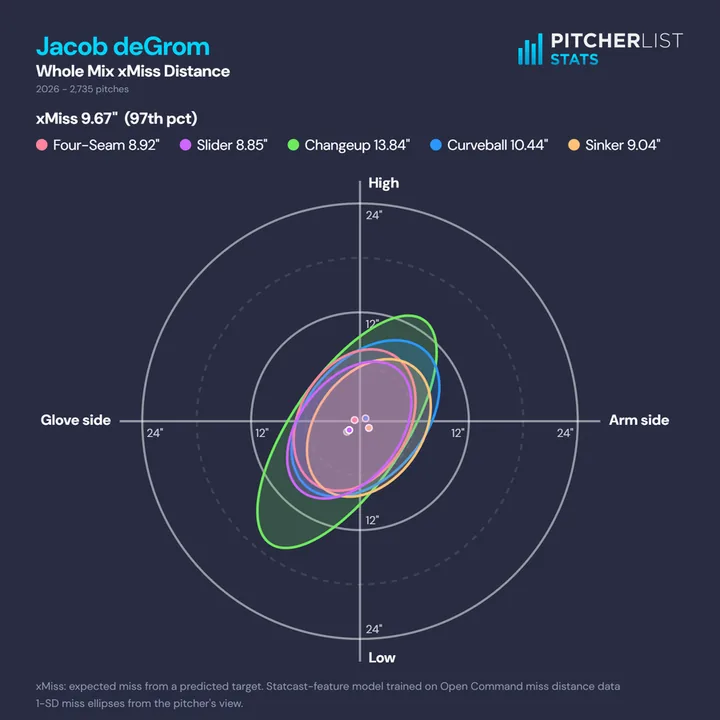
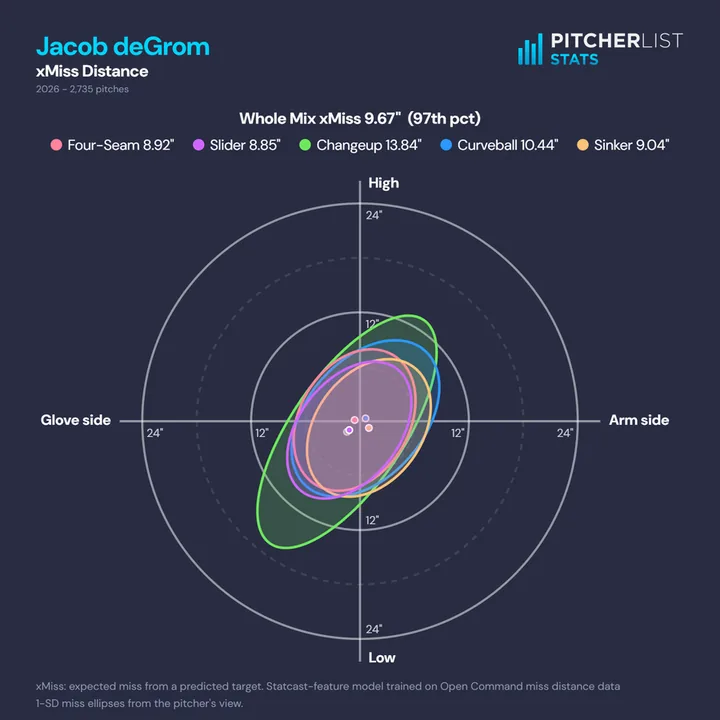
Homepage: regrab the xMiss tile (whole-mix key now says Whole Mix, centred; #368)

Changed region(s): [[0.0306, 0.1528, 0.9472, 0.2139], [0.0306, 0.0917, 0.3361, 0.1222]]

diff --git a/index.html b/index.html
@@ -268,7 +268,7 @@
 								</article>
 									<article class="style4">
 									<span class="image">
-										<img src="images/tile-xmiss.webp?v=1" srcset="images/tile-xmiss-720.webp?v=1 720w, images/tile-xmiss.webp?v=1 900w" sizes="(max-width: 480px) 100vw, (max-width: 980px) 50vw, 380px" width="900" height="900" alt="Jacob deGrom's 2026 miss ellipses for each pitch type, from the pitcher's view" />
+										<img src="images/tile-xmiss.webp?v=2" srcset="images/tile-xmiss-720.webp?v=2 720w, images/tile-xmiss.webp?v=2 900w" sizes="(max-width: 480px) 100vw, (max-width: 980px) 50vw, 380px" width="900" height="900" alt="Jacob deGrom's 2026 miss ellipses for each pitch type, from the pitcher's view" />
 									</span>
 									<a href="/xmiss/">
 										<h2>xMiss</h2>
